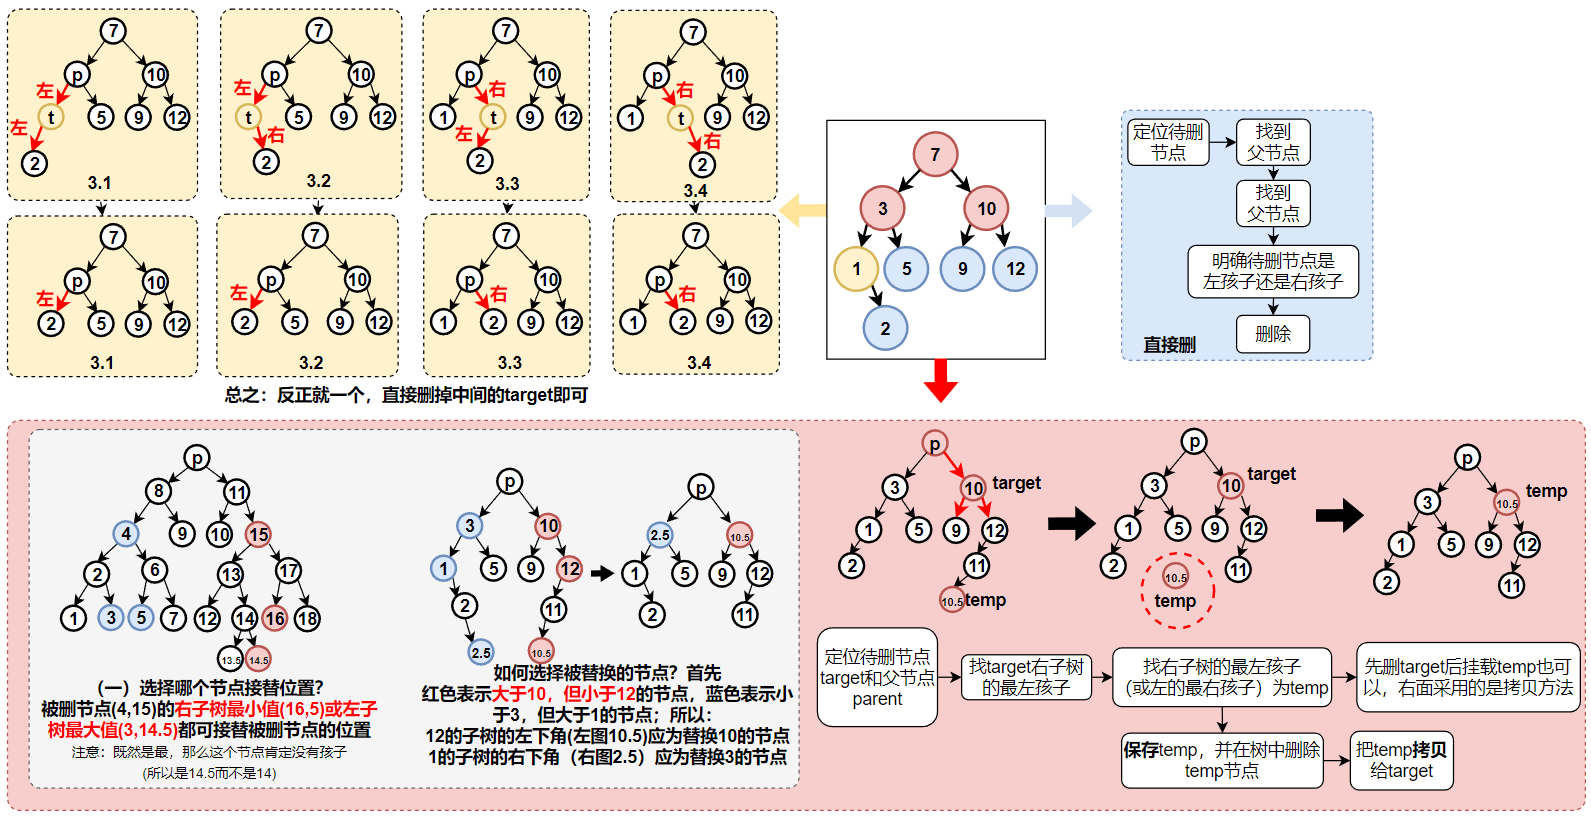
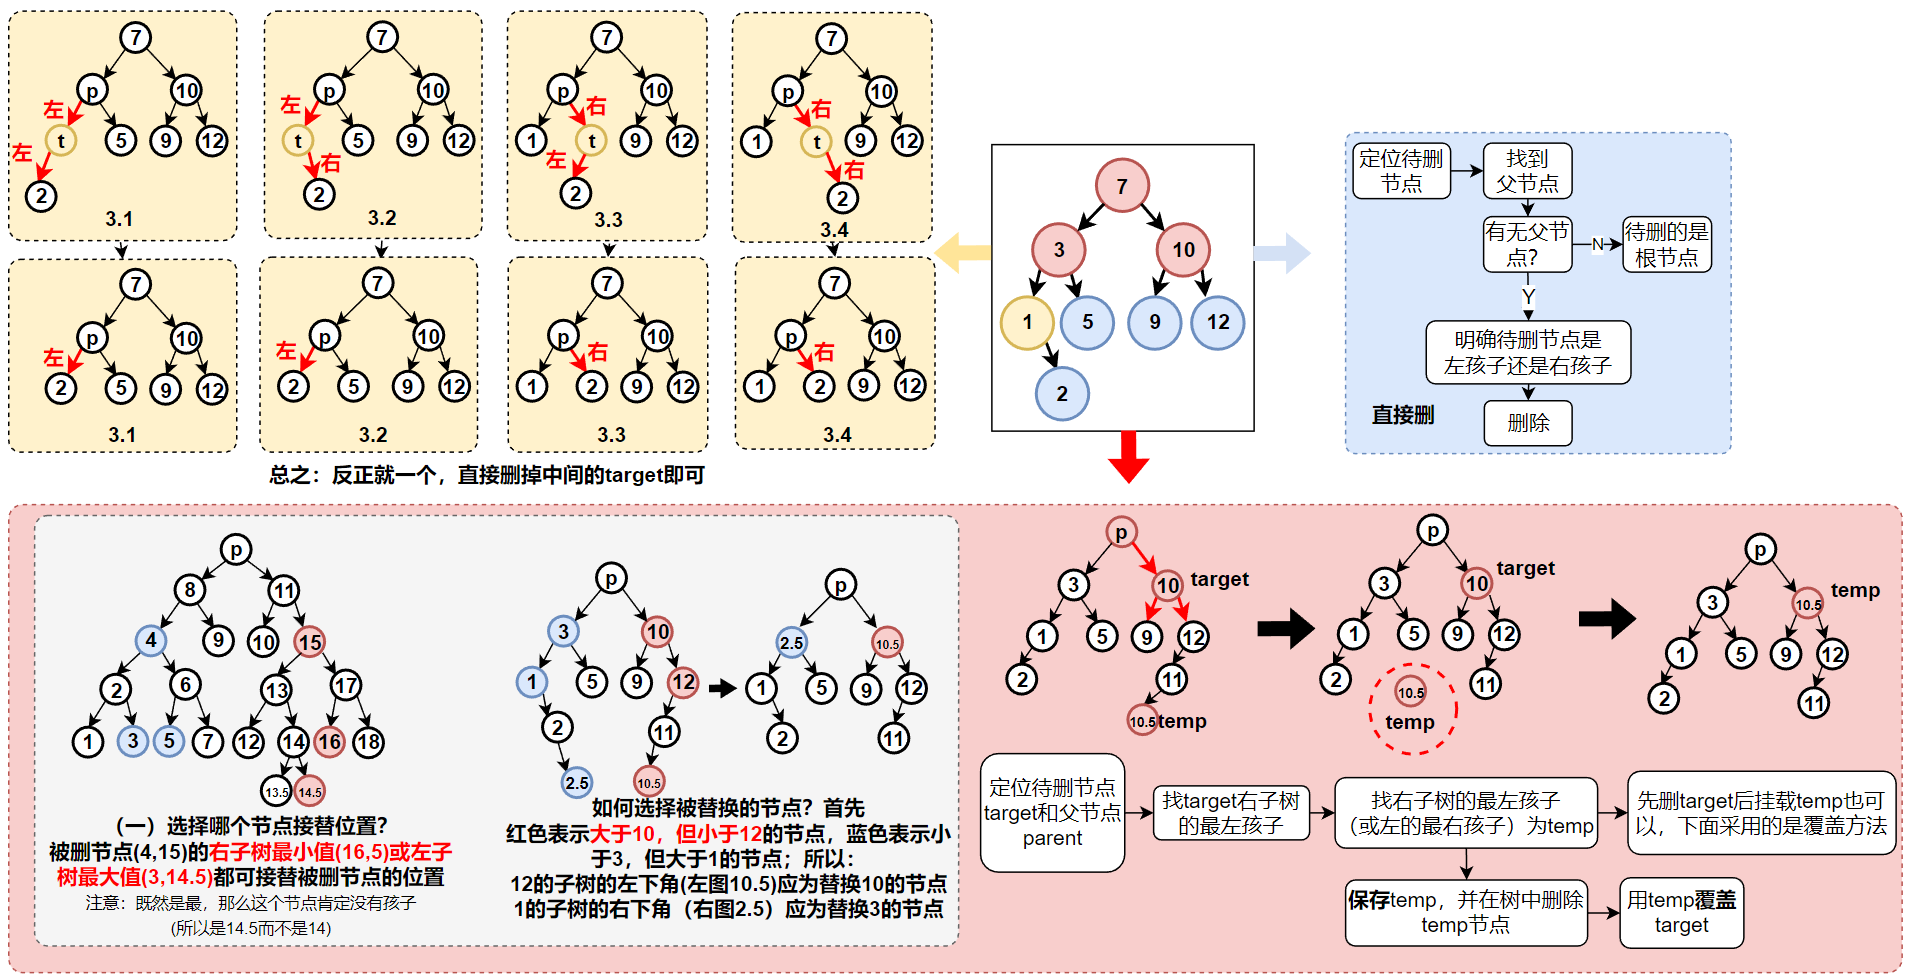
10/04/2

diff --git a/_posts/2022-09-28-binary-search-tree.md b/_posts/2022-09-28-binary-search-tree.md
@@ -25,7 +25,7 @@ toc: true
 &emsp;&emsp;如图，检索效率类似于二分查找，在添加 2 节点时，找到添加位置后，添加也类似链表的挂载，删除速度也很快。
 ![bst01.png](/images/bst01.png "BST"){: .align-center}
 
-### BST相关代码
+## BST相关代码
 
 ### 建立 BST ，重载是个好东西
 
@@ -63,9 +63,9 @@ toc: true
     }
 {% endhighlight %}
 
-### BST 删除节点
+### 删除 BST 非根节点，递归时用不用 return ，区别很大！
 
-&emsp;&emsp;BST删除节点有三种情况：
+&emsp;&emsp;删除 BST 的非根节点有三种情况：
 
 ![bst02.png](/images/bst02.png "BST"){: .align-center}
 
@@ -97,13 +97,13 @@ toc: true
 
 ![BSTdel01.png](/images/BSTdel01.png "BST-delete-situation2"){: .align-center}
 
-&emsp;&emsp; 3.1：targetNode 是 parentNode 的**左**孩子，且 targetNode 的孩子是**左**孩子：parentNode.left = targetNode.left
+3.1：target 是 parent 的**左**孩子，且 target 有**左**孩子：parentNode.left = targetNode.left
 
-&emsp;&emsp; 3.2：targetNode 是 parentNode 的**左**孩子，且 targetNode 的孩子是**右**孩子：parentNode.left = targetNode.right
+3.2：target 是 parent 的**左**孩子，且 target 有**右**孩子：parentNode.left = targetNode.right
 
-&emsp;&emsp; 3.3：targetNode 是 parentNode 的**右**孩子，且 targetNode 的孩子是**左**孩子：parentNode.right = targetNode.left
+3.3：target 是 parent 的**右**孩子，且 target 有**左**孩子：parentNode.right = targetNode.left
 
-&emsp;&emsp; 3.4：targetNode 是 parentNode 的**右**孩子，且 targetNode 的孩子是**右**孩子：parentNode.right = targetNode.right
+3.4：target 是 parent 的**右**孩子，且 target 有**右**孩子：parentNode.right = targetNode.right
 
 - （三）删除**有两颗子树的节点**（红）
 
@@ -123,7 +123,79 @@ toc: true
 
 ![bstdel02.png](/images/bstdel02.png "BST-delete-all-situation"){: .align-center}
 
-&emsp;&emsp;删除节点的代码实现：
-{% highlight js %}
+### 考虑上删除根节点的情况后，整个删除节点的流程
 
+![chart06.png](/images/chart06.png "flowchart-BSTdel"){: .align-center}
+
+&emsp;&emsp;如上图所示，首先从根节点开始找待删节点，并判断待删节点的类型：如果删除的非根节点，则还有三种情况：上面的删除思路里详细介绍了这三种删除情况。但如果待删节点是根节点，则同样有三种情况，对应树的形状如左侧黄/红色所示，蓝色为删除根节点条件下寻找继承的新根的方法，代码如下：
+
+{% highlight js %}
+public Node searchSubRoot() {
+        // 2.1 2.2，2.3 情景下 寻找继承根节点 的节点 的方法，一一对应的图示见蓝色
+        if (this.right != null) {
+            if (this.left == null) {
+                // 2.2 右继承
+                rootFlag = true;// 这里的 rootFlag 是旧 root 的成员
+                return this.right;
+            }else {
+                // 2.3 右子树最左继承
+                Node startNode = this.right;
+                while (startNode.left != null) {
+                    startNode = startNode.left;
+                }
+                return startNode;
+            }
+        } else if (this.left != null) {
+            // 2.2 左继承
+            rootFlag = true;
+            return this.left;
+            }else{
+            // 2.1 无继承
+            return null;
+        }
+    }
 {% endhighlight %}
+
+&emsp;&emsp;如果是图中 2.1 ，直接删成空树即可，如果是图中 2.3 ，思路是先找到新根并持有，删除新根，新根的值覆盖旧根。值得一提的是 2.2 删除代码，如下所示：注意 rootFlag 是在 root 里的；只有在2.2场景下才会涉及到rootFlag，因此判断并新旧root删除，具体删除图示如蓝色。
+
+{% highlight js %}
+// 2.2 只有根的一边有子树，图示见蓝色
+        if (root.rootFlag){
+            System.out.println("正在删除根节点，此时为单边树...");
+            // 持有旧root
+            Node tempRoot = root;
+            // 设置新root
+            setRoot(newRoot);
+            // 删掉旧root
+            tempRoot.right = null;
+            tempRoot.left = null;
+            // 无需重置 rootFlag ，因为 rootFlag 是旧 root 的成员，而且已经被删掉了
+            return;
+        }
+{% endhighlight %}
+
+## 总结
+
+这部分代码的体会：
+
+1） 注意下面的<mark> return </mark>：
+
+{% highlight js %}
+public Node searchParentNode(int value) {
+        // 先写 this.left != null 防止nullpointer
+        if ((this.left != null && this.left.value == value) || (this.right != null && this.right.value == value)) {
+            return this;
+        }
+        if (value < this.value && this.left != null) {
+            // 这里一定要return！！！！不然永远都会执行到 下面的return null，怎么都是null！
+            return this.left.searchParentNode(value);
+        }
+        if (value >= this.value && this.right != null) {
+            // BST 要尽量避免相同值，根据add()，≥都放在右了，所以这里也去右边找；
+            return this.right.searchParentNode(value);
+        }
+        return null;
+    }
+{% endhighlight %}
+
+2）类中**成员 Boolean 变量**的设置，方便条件判断，见上面的<mark> rootFlag </mark>。
